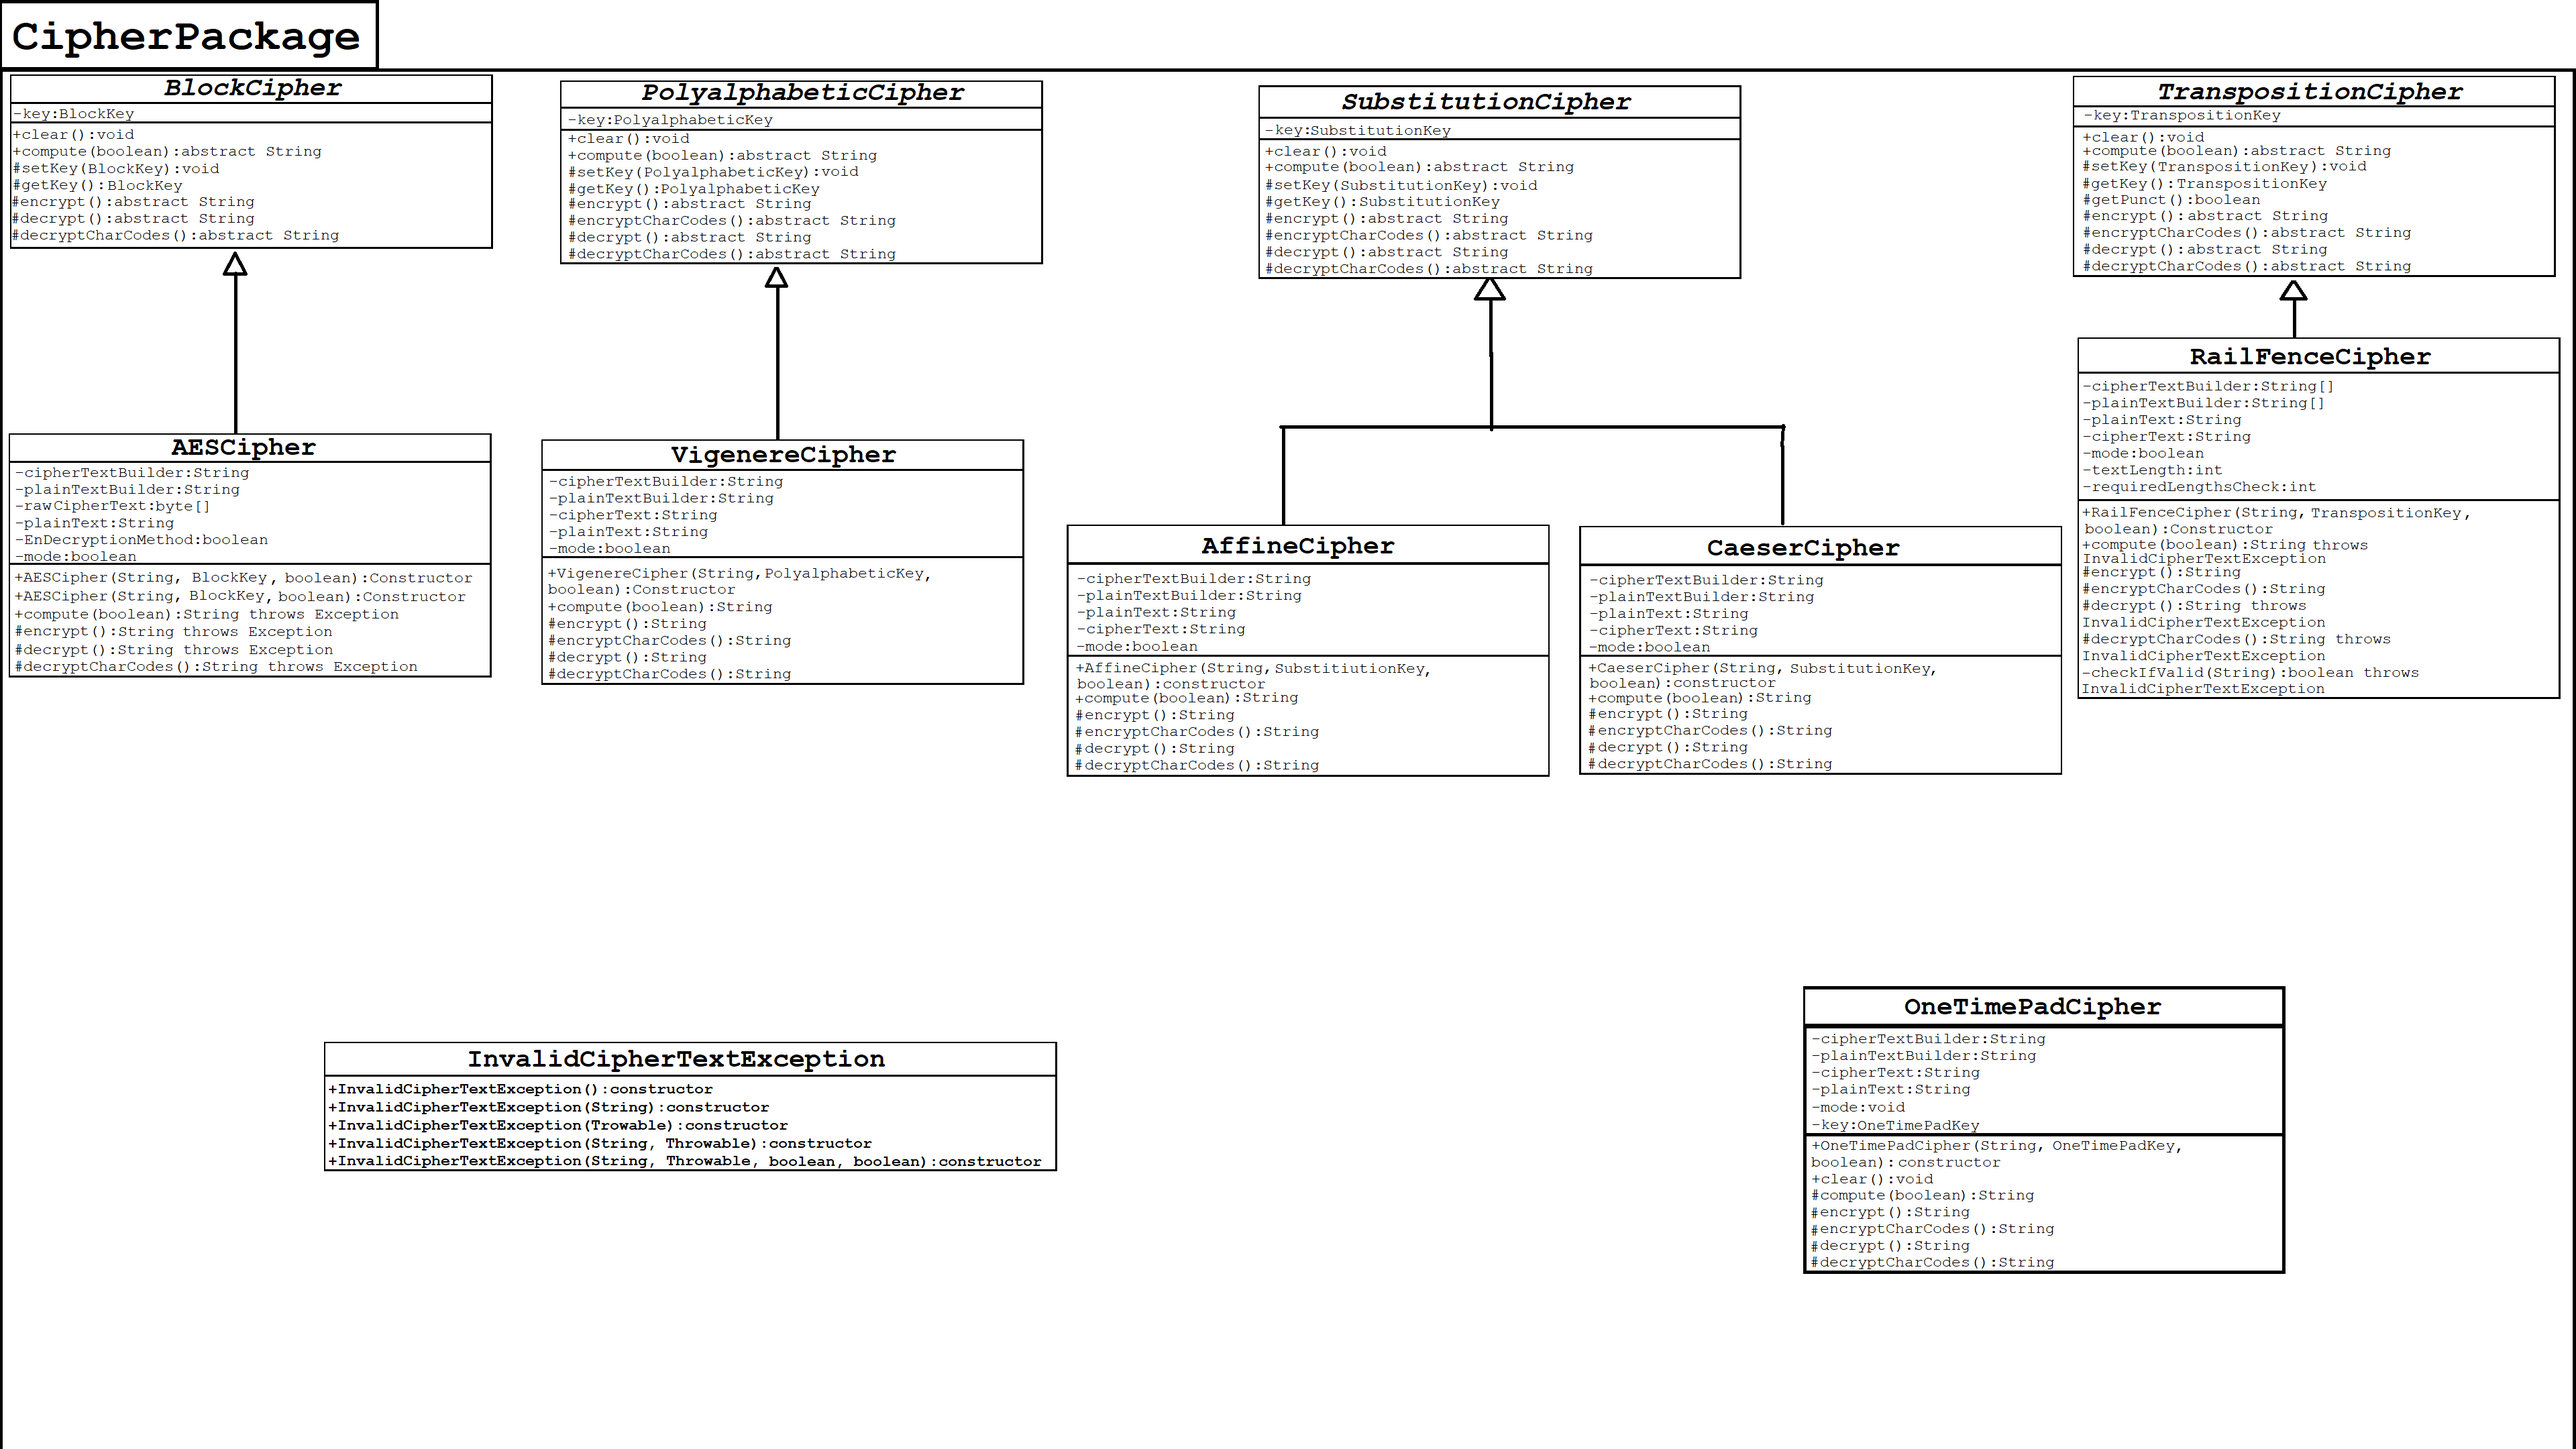
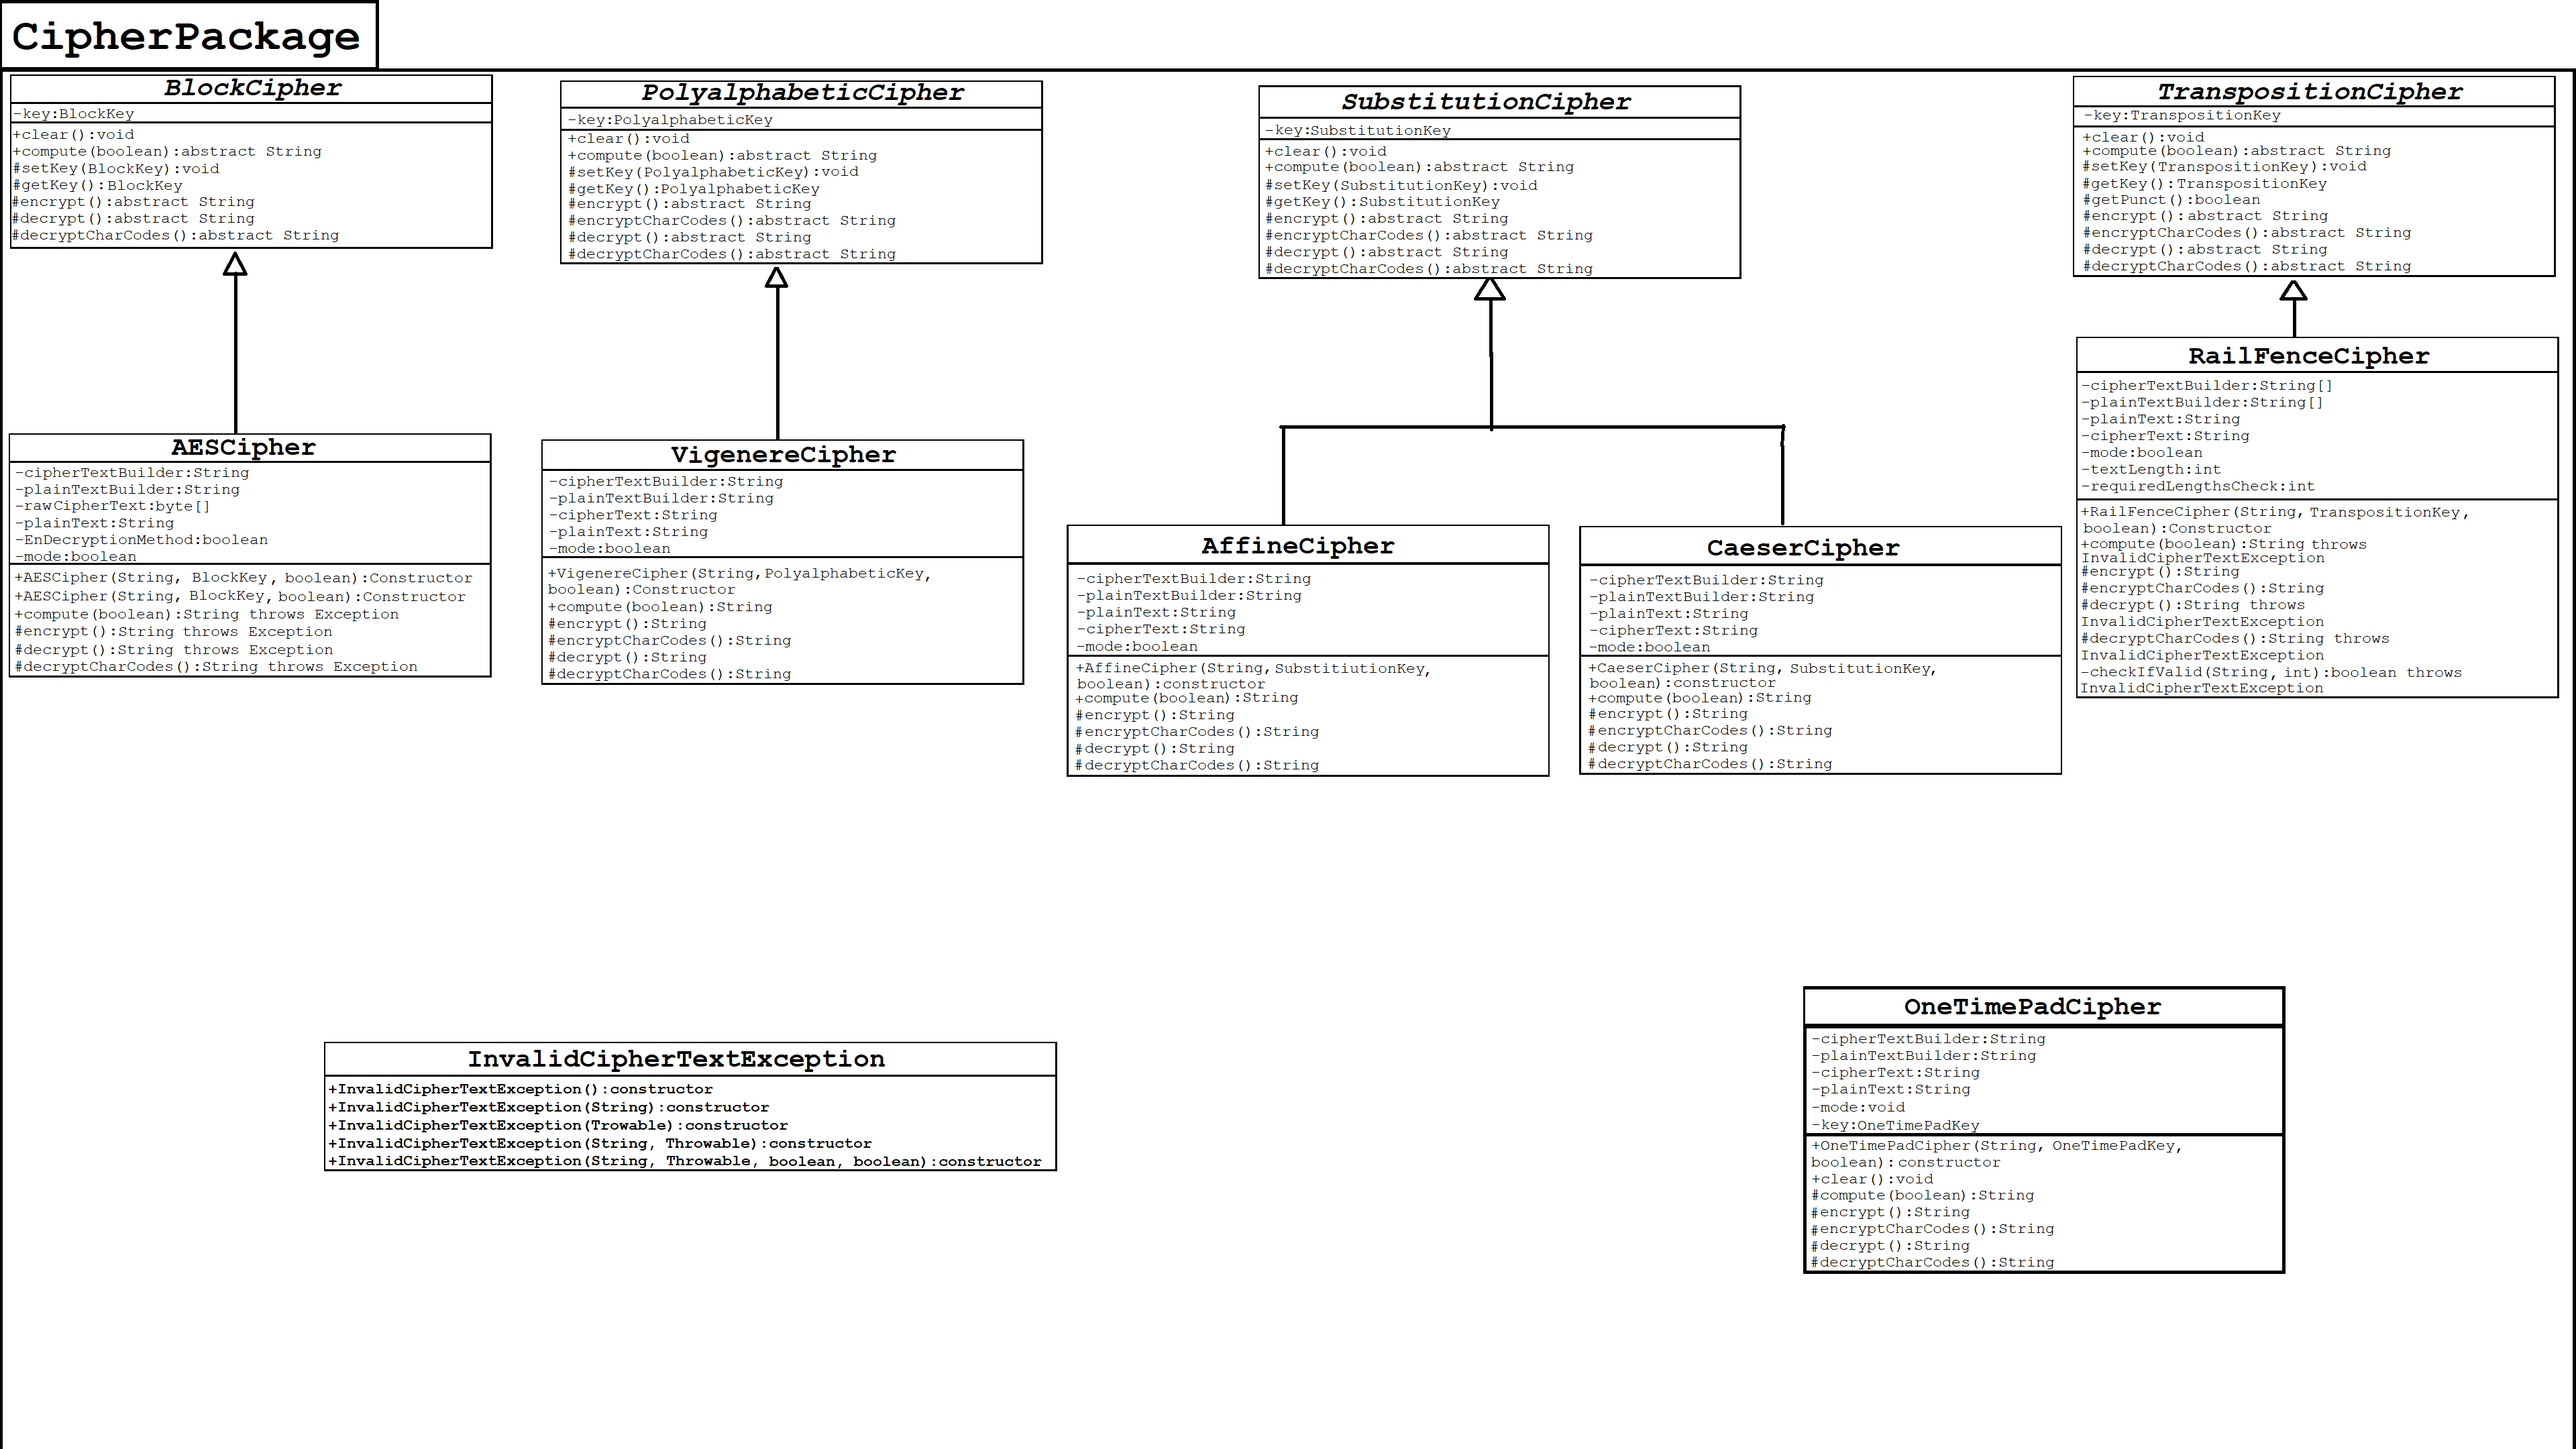
upd

Changed region(s): [[0.8125, 0.2171, 0.9688, 0.4963]]

diff --git a/Encryptor Decryptor File Encryption/src/Encryptor Decryptor File Ecryption/CipherPackage/RailFenceCipher.java b/Encryptor Decryptor File Encryption/src/Encryptor Decryptor File Ecryption/CipherPackage/RailFenceCipher.java
@@ -3,45 +3,86 @@
  */
 package CipherPackage;
 
+import java.util.stream.IntStream;
+import CipherKeys.TranspositionKey;
+
 /**
- * @author eon74
+ * @author Amol Soneji
  *
  */
-public class RailFenceCipher extends TranspositionCipher {
+public class RailFenceCipher extends TranspositionCipher 
+{
+	
+	private String[] cipherTextBuilder;
+	private String[] plainTextBuilder;
+	private String plainText;
+	private String cipherText;
+	private boolean mode;
+	private int textLength;
+	private int requiredLengthsCheck;
 
 	/**
 	 * 
 	 */
-	public RailFenceCipher() {
-		// TODO Auto-generated constructor stub
+	public RailFenceCipher(String text, TranspositionKey key, boolean mode) 
+	{
+		this.mode = mode;
+		if(mode) { // True for encrypt.  
+			super.setKey(key);
+			if(super.getPunct())  {  //Keep punctuation in result.  
+				plainText = text;
+				textLength = text.length();
+			}
+			else  {  //Don't keep punctuation in result.  
+				IntStream textInts = text.codePoints();
+				int[] intTextArray = textInts.toArray();
+				for(int index = 0; index < text.length(); index++) {
+					if(Character.isLetter(intTextArray[index])) // Check if not punctuation.  
+						plainText = plainText + String.copyValueOf(Character.toChars(intTextArray[index]));
+				}
+				textLength = plainText.length();
+			}
+			cipherTextBuilder = new String[key.getKey()];
+		}
+		else {  //Decrypt
+			cipherText = text;
+			super.setKey(key);
+			textLength = text.length();
+			plainTextBuilder = new String[key.getKey()];
+		}
 	}
 
 	@Override
-	public String compute(boolean resultType) {
+	public String compute(boolean resultType)
+	{
 		// TODO Auto-generated method stub
 		return null;
 	}
 
 	@Override
-	protected String encrypt() {
+	protected String encrypt() 
+	{
 		// TODO Auto-generated method stub
 		return null;
 	}
 
 	@Override
-	protected String encryptCharCodes() {
+	protected String encryptCharCodes() 
+	{
 		// TODO Auto-generated method stub
 		return null;
 	}
 
 	@Override
-	protected String decrypt() {
+	protected String decrypt() 
+	{
 		// TODO Auto-generated method stub
 		return null;
 	}
 
 	@Override
-	protected String decryptCharCodes() {
+	protected String decryptCharCodes() 
+	{
 		// TODO Auto-generated method stub
 		return null;
 	}
